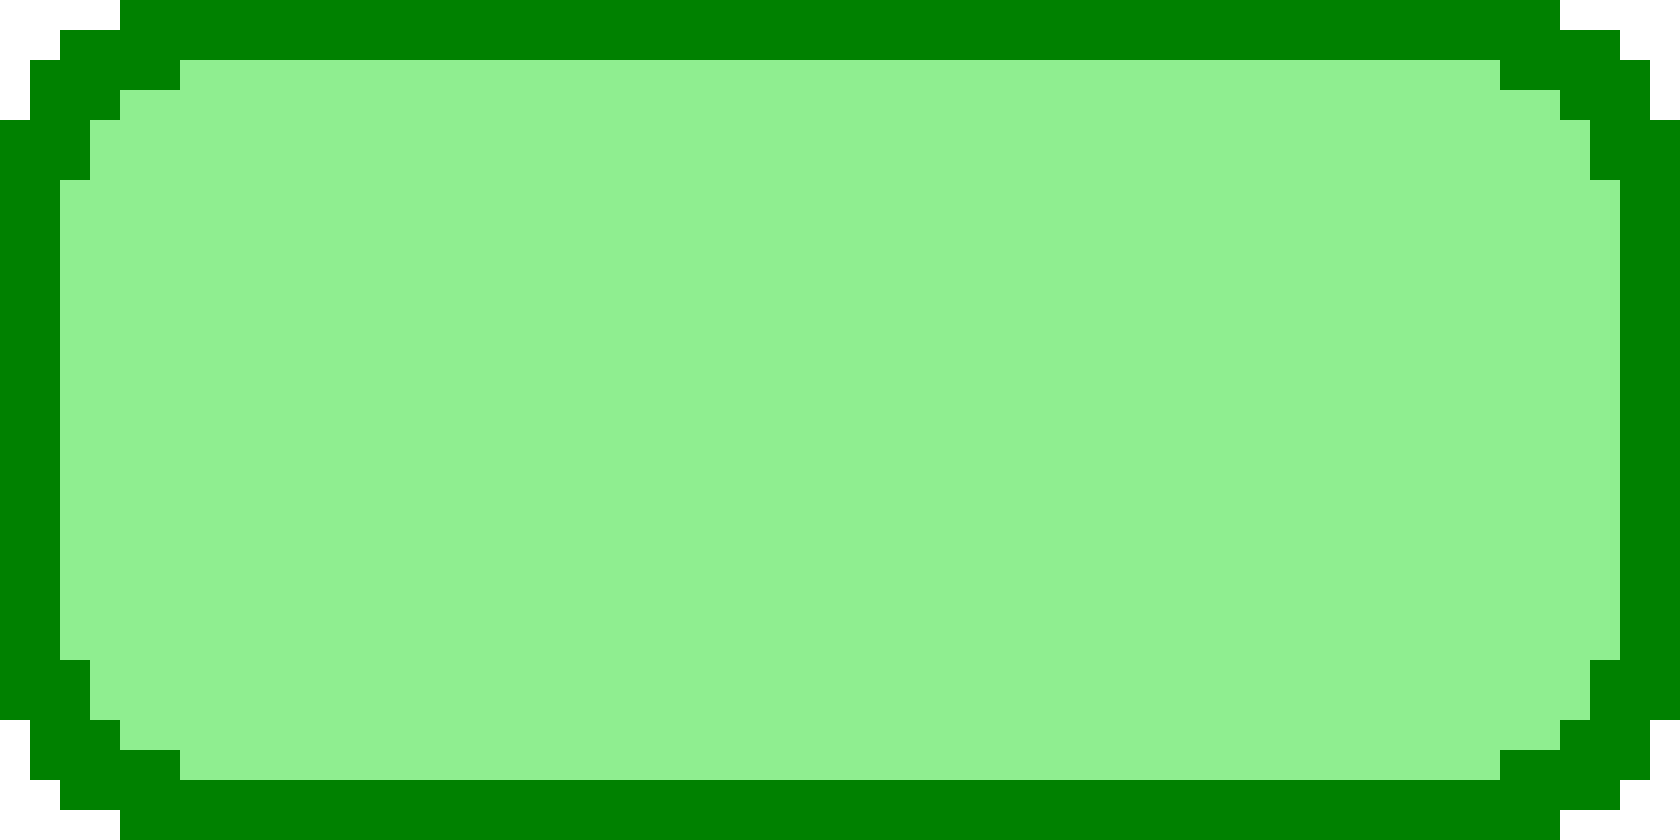
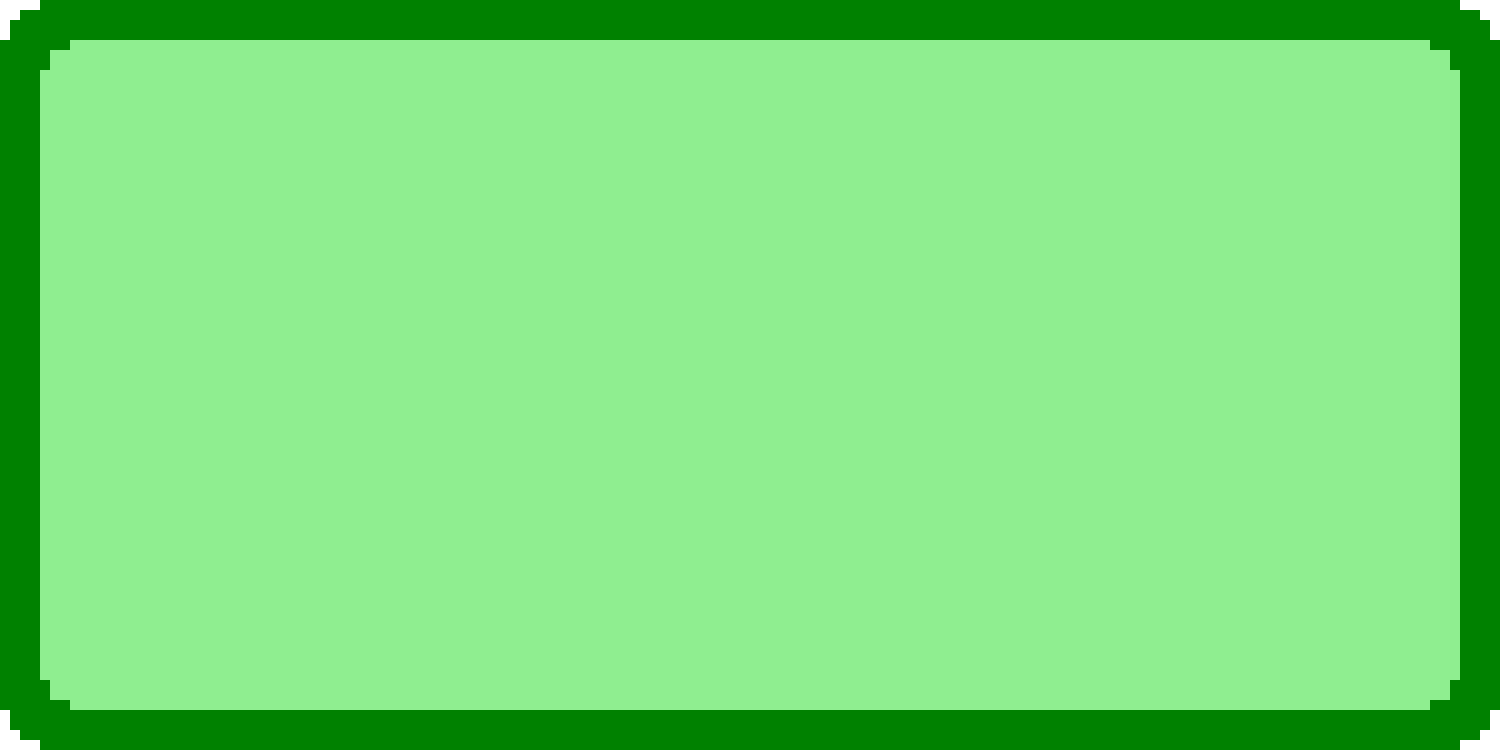
fix : 버튼 이미지 변경 및 마우스 오버 상태 수정, skip 버튼 디자인 수정

Changed region(s): [[0.0, 0.0, 1.0, 1.0]]

diff --git a/brickout.js b/brickout.js
@@ -12,11 +12,16 @@ var mainGameCanvas = document.getElementById("mainGameCanvas");
 $(document).ready(function(){
     // 시작 화면 버튼 설정
     $(".menuButton").mouseover(function () {
-        $(this).css("font-size", "33px");
+        $(this).css({"text-shadow":"0 3px 0 darkgreen", "font-size":"35px"});
     });
-
+    $(".menuButton").mousedown(function () {
+        $(this).css({"text-shadow":"none", "line-height":"86px"});
+    });
+    $(".menuButton").mouseup(function () {
+        $(this).css({"text-shadow":"0 3px 0 darkgreen", "line-height":"80px"});
+    });
     $(".menuButton").mouseout(function () {
-        $(this).css("font-size", "30px");
+        $(this).css({"text-shadow":"none", "line-height":"80px", "font-size":"33px"});
     });
 
     // 난이도 변경 버튼 : 누를 때마다 난이도 변경(loop)
@@ -73,11 +78,13 @@ $(document).ready(function(){
 
     // 스토리 스킵 버튼 설정
     $(".skipButton").mouseover(function () {
-        $(this).css("font-size", "33px");
+        $(this).css({"font-size":"32px", "text-shadow":"0 2px 0 white"});
     });
-
+    $(".skipButton").mousedown(function () {
+        $(this).css({"bottom":"28px", "text-shadow":"none"});
+    });
     $(".skipButton").mouseout(function () {
-        $(this).css("font-size", "30px");
+        $(this).css({"font-size":"30px", "text-shadow":"none"});
     });
 
     // 스토리 씬#1 스킵하면 씬#2 등장; 정확한 씬 개수는 아직 안정함.

diff --git a/brickout.html b/brickout.html
@@ -25,15 +25,15 @@
         <div id="storyScreen" class="offScreen ">
             <div id="scene1" class="storyScene">
                 <h1>#1</h1>
-                <button id="skip1" class="skipButton">skip</button>
+                <div id="skip1" class="skipButton">skip</div>
             </div>
             <div id="scene2" class="storyScene offScreen">
                 <h1>#2</h1>
-                <button id="skip2" class="skipButton">skip</button>
+                <div id="skip2" class="skipButton">skip</div>
             </div>
             <div id="scene3" class="storyScene offScreen">
                 <h1>#3</h1>
-                <button id="skip3" class="skipButton">skip</button>
+                <div id="skip3" class="skipButton">skip</div>
             </div>
         </div>
         <div id="main_game" class="gameScreen offScreen">

diff --git a/brickout.css b/brickout.css
@@ -42,13 +42,7 @@ body {
     display: block;
     margin: 15px 324px;
     width: 160px; height: 80px;
-    font-size: 30px; 
-    text-shadow: 0 3px 0 darkgreen;
-}
-
-#startScreen button:active {
-    line-height: 86px;
-    text-shadow: none;
+    font-size: 33px;
 }
 
 #settingPage {
@@ -102,9 +96,6 @@ body {
 }
 
 .skipButton {
-    background: none;
-    background-image: url("button_background.png");
-    background-size: 100px 50px;
     border: none;
     position: absolute;
     bottom: 30px;
@@ -113,12 +104,6 @@ body {
     font-size: 30px;
     line-height: 30px;
     text-align: center;
-    text-shadow: 0 2px 0 darkgreen;
-}
-
-.skipButton:active {
-    line-height: 56px;
-    text-shadow: none;
 }
 
 #gameScreen {
